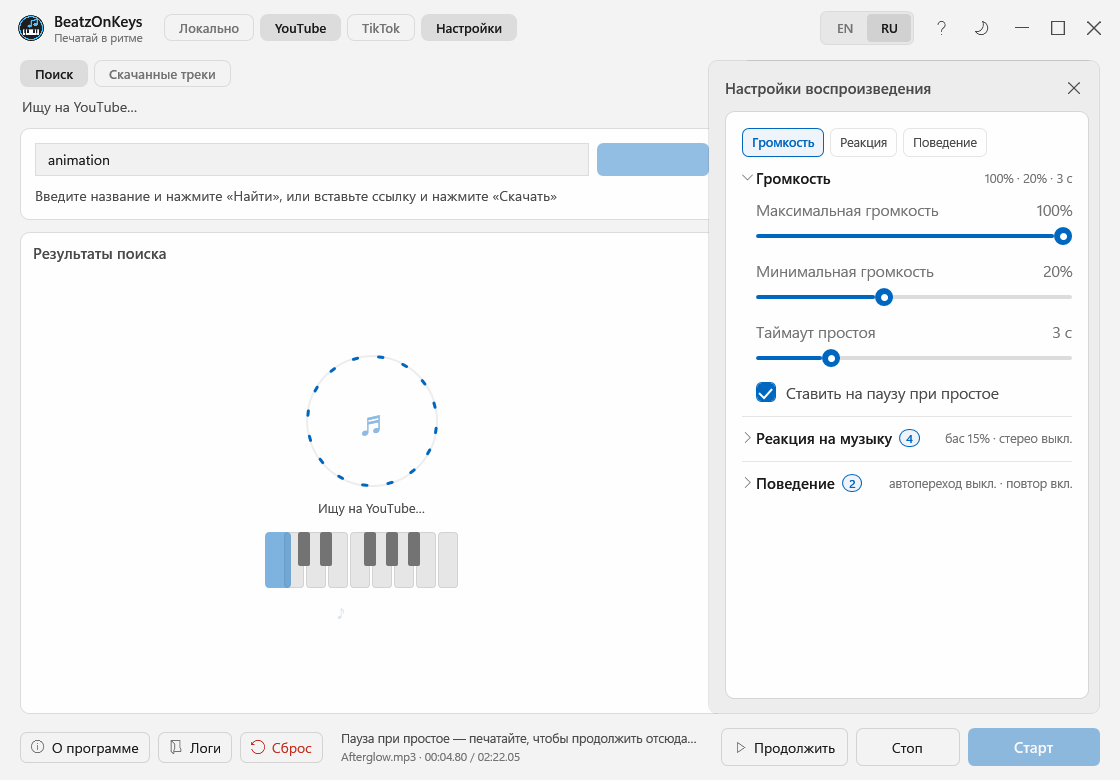
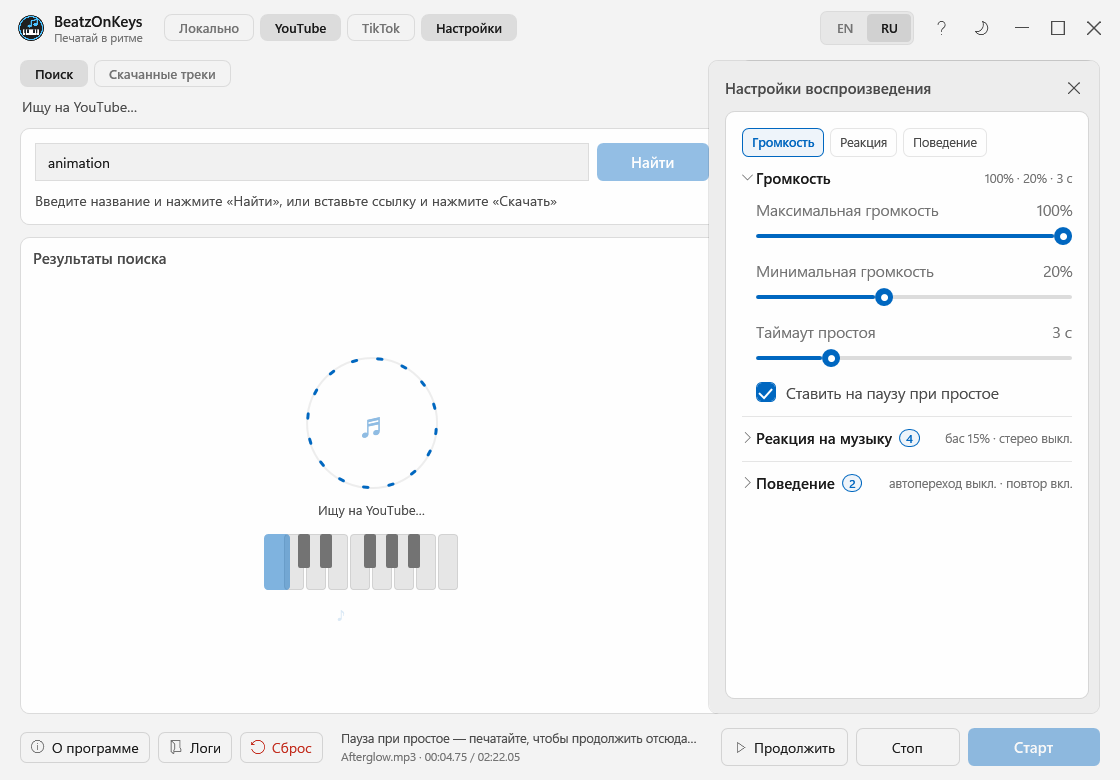
Release 1.4.0.5: the YouTube button gets its label back, and TikTok gets a route without a VPN
The primary button on the YouTube tab has been empty since 1.4.0. The Cancel
button had been placed inside it, and a button's own content always outranks the
content setter from its style, so the button showed the hidden Cancel and never
the word "Search" or "Download". Cancel is a neighbour now, as it already was on
the TikTok tab. The smoke reads button labels instead of only photographing
them, and refuses any button that holds another button as its content.

TikTok now asks the embed page first: www.tiktok.com/embed/v2/<id> exists for the
sites that show TikTok videos, so TikTok serves it without the puzzle and without
the 10204 regional refusal. Measured on a live clip: 287 KB of page, no
challenge, and a 231 KB MP3 behind musicInfos.playUrl. The clip's own text, in
Cyrillic, becomes the row name instead of the numeric id. Caveat: this is the
original-sound track, which is exactly right when the clip's audio is the music.

yt-dlp now runs with PYTHONIOENCODING=utf-8 and PYTHONUTF8=1, because it is
Python and on Windows its output followed the console code page while the
program decoded it as UTF-8, turning every Cyrillic letter into a replacement
character. A second guard drops replacement characters anyway, so no future
encoding accident can put a row of diamonds in the list.

"ratelimit triggered" is its own answer now instead of looking like a broken
connection: too many requests from one address make TikTok slower for a while,
[…]

diff --git a/BeatzOnKeys.UI/MainWindow.xaml b/BeatzOnKeys.UI/MainWindow.xaml
@@ -889,14 +889,10 @@
                     <Border Style="{StaticResource CardStyle}" Padding="14">
                         <StackPanel>
                             <DockPanel>
+                                <!-- The label lives in the style, so the button must not hold any content of
+                                     its own: a local child would outrank the setter and leave the button
+                                     empty, which is exactly what a nested Cancel button did. -->
                                 <Button DockPanel.Dock="Right" MinWidth="112" Margin="8,0,0,0">
-                                <!-- Cancel appears only while something runs: a search, the
-                                     background cache pass or a link download. -->
-                                <Button DockPanel.Dock="Right" MinWidth="96" Margin="8,0,0,0"
-                                        Content="{DynamicResource L_Cancel}"
-                                        Style="{StaticResource SubtleButtonStyle}"
-                                        Command="{Binding YouTube.CancelCommand}"
-                                        Visibility="{Binding YouTube.CancelVisible}"/>
                                     <Button.Style>
                                         <Style TargetType="Button" BasedOn="{StaticResource AccentButtonStyle}">
                                             <Setter Property="Content" Value="{DynamicResource L_YtSearch}"/>
@@ -912,6 +908,14 @@
                                         </Style>
                                     </Button.Style>
                                 </Button>
+                                <!-- Cancel is a neighbour of that button, not its content: it appears only
+                                     while something runs — a search, the background cache pass or a link
+                                     download — and must not take the label away when it hides. -->
+                                <Button DockPanel.Dock="Right" MinWidth="96" Margin="8,0,0,0"
+                                        Content="{DynamicResource L_Cancel}"
+                                        Style="{StaticResource SubtleButtonStyle}"
+                                        Command="{Binding YouTube.CancelCommand}"
+                                        Visibility="{Binding YouTube.CancelVisible}"/>
                                 <TextBox Text="{Binding YouTube.SearchQuery, UpdateSourceTrigger=PropertyChanged}"
                                          Style="{StaticResource InputBoxStyle}"
                                          AutomationProperties.Name="{DynamicResource L_YtSearchPlaceholder}"/>

diff --git a/BeatzOnKeys.UI/Localization/Strings.ru.xaml b/BeatzOnKeys.UI/Localization/Strings.ru.xaml
@@ -201,7 +201,8 @@
     <sys:String x:Key="L_TikTokFailureDownload">Не удалось скачать. Проверьте ссылку и попробуйте снова.</sys:String>
     <sys:String x:Key="L_TikTokFailureNetwork">Соединение с TikTok оборвалось. Попробуйте ещё раз через минуту.</sys:String>
 <sys:String x:Key="L_TikTokFailureRegion">TikTok не отдаёт этот ролик вашему подключению — его собственное ограничение. С другой сети он может открыться.</sys:String>
-    <sys:String x:Key="L_TikTokFailureChallenge">TikTok запросил проверку, которую не удалось пройти. Попробуйте ещё раз через минуту.</sys:String>
+    <sys:String x:Key="L_TikTokFailureRateLimited">TikTok просит подождать: с этого адреса слишком часто спрашивали. Попробуйте через пару минут.</sys:String>
+<sys:String x:Key="L_TikTokFailureChallenge">TikTok запросил проверку, которую не удалось пройти. Попробуйте ещё раз через минуту.</sys:String>
     <sys:String x:Key="L_TikTokNetworkTitle">Связь с TikTok обрывается</sys:String>
     <sys:String x:Key="L_TikTokNetworkBody">TikTok не ответил или соединение прервалось на середине. Это бывает и не при каждом ролике: подождите минуту и попробуйте снова. Если так повторяется — попробуйте другое подключение к интернету.</sys:String>
     <sys:String x:Key="L_YtSearchPlaceholder">Название трека или ссылка YouTube</sys:String>

diff --git a/BeatzOnKeys.UI/Localization/Strings.en.xaml b/BeatzOnKeys.UI/Localization/Strings.en.xaml
@@ -201,7 +201,8 @@ Details: {1}</sys:String>
     <sys:String x:Key="L_TikTokFailureDownload">Could not download. Check the link and try again.</sys:String>
     <sys:String x:Key="L_TikTokFailureNetwork">The connection to TikTok broke. Try again in a minute.</sys:String>
 <sys:String x:Key="L_TikTokFailureRegion">TikTok will not serve this clip to your connection — that is its own restriction. Another network may open it.</sys:String>
-    <sys:String x:Key="L_TikTokFailureChallenge">TikTok asked for a check this program could not pass. Try again in a minute.</sys:String>
+    <sys:String x:Key="L_TikTokFailureRateLimited">TikTok asks you to wait: this address has asked too often. Try again in a couple of minutes.</sys:String>
+<sys:String x:Key="L_TikTokFailureChallenge">TikTok asked for a check this program could not pass. Try again in a minute.</sys:String>
     <sys:String x:Key="L_TikTokNetworkTitle">The connection to TikTok keeps breaking</sys:String>
     <sys:String x:Key="L_TikTokNetworkBody">TikTok did not answer, or the connection broke halfway. It does not happen with every clip: wait a minute and try again. If it keeps happening, try another internet connection.</sys:String>
     <sys:String x:Key="L_YtSearchPlaceholder">Track name or a YouTube link</sys:String>

diff --git a/BeatzOnKeys.Core/YouTube/TikTokAudioService.cs b/BeatzOnKeys.Core/YouTube/TikTokAudioService.cs
@@ -34,7 +34,13 @@ public enum TikTokFailure
     /// to see it. Nothing is broken and nobody is blocking the site, so it gets a sentence of its
     /// own instead of being folded into a network failure.
     /// </summary>
-    RegionBlocked = 11
+    RegionBlocked = 11,
+
+    /// <summary>
+    /// TikTok itself said "ratelimit triggered": this address has asked too often and is being
+    /// told to wait. Retrying straight away only lengthens the wait, so it is named separately.
+    /// </summary>
+    RateLimited = 12
 }
 
 /// <summary>Carries the reason so the view model can translate it instead of guessing from text.</summary>
@@ -268,11 +274,18 @@ public sealed class TikTokAudioService : ITikTokAudioService
     /// </summary>
     private async Task<TikTokMedia?> ReadMediaAsync(string id, string originalUrl, CancellationToken cancellationToken)
     {
+        // The embed page first: it exists for third-party sites, so TikTok serves it without the
+        // puzzle and without the regional refusal, and it carries the clip's own text and its audio.
+        var embed = await ReadPageAsync($"https://www.tiktok.com/embed/v2/{id}", cancellationToken).ConfigureAwait(false);
+        RejectRateLimit(embed);
+        if (ParseEmbed(embed) is { } fromEmbed) { return fromEmbed; }
+
         var api = await TryReadJsonAsync(
             $"https://www.tiktok.com/api/item/detail/?aid=1988&itemId={id}", cancellationToken).ConfigureAwait(false);
         if (ParseMedia(api) is { } fromApi) { return fromApi; }
 
         var page = await ReadPageAsync($"https://www.tiktok.com/@i/video/{id}", cancellationToken).ConfigureAwait(false);
+        RejectRateLimit(page);
         if (ParsePage(page) is { } fromPage) { return fromPage; }
         _pageStatus = ReadPageStatus(page);
 
@@ -372,6 +385,88 @@ public sealed class TikTokAudioService : ITikTokAudioService
     /// Reads TikTok's own status code out of the page. The value decides the sentence the user gets,
     /// and it is TikTok's verdict rather than a guess made from another tool's wording.
     /// </summary>
+    /// <summary>
+    /// Reads the embed page: it keeps the clip's text and its audio under a JSON blob meant for the
+    /// sites that show TikTok videos. The route exists because third-party embeds cannot solve a
+    /// puzzle and are not served the regional refusal, which makes it the one that works here.
+    /// </summary>
+    internal static TikTokMedia? ParseEmbed(string? html)
+    {
+        if (string.IsNullOrWhiteSpace(html)) { return null; }
+        const string open = "<script id=\"__FRONTITY_CONNECT_STATE__\" type=\"application/json\">";
+        var start = html.IndexOf(open, StringComparison.Ordinal);
+        if (start < 0) { return null; }
+        start += open.Length;
+        var end = html.IndexOf("</script>", start, StringComparison.Ordinal);
+        if (end <= start) { return null; }
+        try
+        {
+            using var document = JsonDocument.Parse(html[start..end]);
+            if (!TryFindEmbedVideo(document.RootElement, out var video)) { return null; }
+
+            var title = ReadEmbedText(video, "itemInfos", "text");
+            string? audio = null;
+            if (video.TryGetProperty("musicInfos", out var music) && music.ValueKind == JsonValueKind.Object &&
+                music.TryGetProperty("playUrl", out var urls) && urls.ValueKind == JsonValueKind.Array)
+            {
+                foreach (var candidate in urls.EnumerateArray())
+                {
+                    if (candidate.ValueKind == JsonValueKind.String && candidate.GetString() is { Length: > 0 } found)
+                    {
+                        audio = found;
+                        break;
+                    }
+                }
+            }
+
+            return audio is null && title is null ? null : new TikTokMedia(audio, null, title);
+        }
+        catch (JsonException) { return null; }
+    }
+
+    /// <summary>The embed blob keys its item by the route it was asked for, so the bag is searched.</summary>
+    private static bool TryFindEmbedVideo(JsonElement root, out JsonElement video)
+    {
+        video = default;
+        if (root.ValueKind != JsonValueKind.Object ||
+            !root.TryGetProperty("source", out var source) || source.ValueKind != JsonValueKind.Object ||
+            !source.TryGetProperty("data", out var bag) || bag.ValueKind != JsonValueKind.Object)
+        {
+            return false;
+        }
+
+        foreach (var entry in bag.EnumerateObject())
+        {
+            if (entry.Value.ValueKind == JsonValueKind.Object &&
+                entry.Value.TryGetProperty("videoData", out var found) && found.ValueKind == JsonValueKind.Object)
+            {
+                video = found;
+                return true;
+            }
+        }
+
+        return false;
+    }
+
+    private static string? ReadEmbedText(JsonElement node, string parent, string child) =>
+        node.TryGetProperty(parent, out var section) && section.ValueKind == JsonValueKind.Object &&
+        section.TryGetProperty(child, out var value) && value.ValueKind == JsonValueKind.String
+            ? value.GetString()
+            : null;
+
+    /// <summary>
+    /// TikTok says this when one address has asked too often. Waiting is the only real answer, so
+    /// the retry ladder stops rather than making the wait longer.
+    /// </summary>
+    private static void RejectRateLimit(string? body)
+    {
+        if (body is not null && body.Contains("ratelimit triggered", StringComparison.OrdinalIgnoreCase))
+        {
+            throw new TikTokException(TikTokFailure.RateLimited,
+                "TikTok answered ratelimit triggered: this address has asked too often.");
+        }
+    }
+
     internal static int ReadPageStatus(string? html)
     {
         if (string.IsNullOrWhiteSpace(html)) { return 0; }
@@ -793,6 +888,12 @@ public sealed class TikTokAudioService : ITikTokAudioService
         // yt-dlp's "your IP address is blocked" is its wording for TikTok's own status 10204, which
         // is a regional decision by TikTok and has nothing to do with the provider. Keeping the two
         // apart is the point: one is fixed by trying again in a minute, the other is not.
+        if (text.Contains("ratelimit"))
+        {
+            return new TikTokException(TikTokFailure.RateLimited,
+                "TikTok asked this address to slow down: " + FirstLine(standardError));
+        }
+
         if (text.Contains("ip address is blocked") || text.Contains("not available in your region"))
         {
             return new TikTokException(TikTokFailure.RegionBlocked,
@@ -827,8 +928,31 @@ public sealed class TikTokAudioService : ITikTokAudioService
     private static string? Trim(string? text, int maximum)
     {
         if (string.IsNullOrWhiteSpace(text)) { return null; }
-        var flat = string.Join(' ', text.Split((char[]?)null, StringSplitOptions.RemoveEmptyEntries));
+        var cleaned = RemoveUndecodable(text);
+        if (string.IsNullOrWhiteSpace(cleaned)) { return null; }
+        var flat = string.Join(' ', cleaned.Split((char[]?)null, StringSplitOptions.RemoveEmptyEntries));
         return flat.Length <= maximum ? flat : flat[..maximum].TrimEnd() + "…";
+    }
+
+    /// <summary>
+    /// Drops replacement characters and control codes from a name. They only appear when a byte
+    /// stream was decoded with the wrong code page, and a row of diamonds tells the user nothing
+    /// except that something went wrong; a shorter honest name is better than that.
+    /// </summary>
+    internal static string RemoveUndecodable(string text)
+    {
+        var kept = new StringBuilder(text.Length);
+        foreach (var symbol in text)
+        {
+            if (symbol == '\uFFFD' || (char.IsControl(symbol) && symbol is not ('\t' or '\n' or '\r')))
+            {
+                continue;
+            }
+
+            kept.Append(symbol);
+        }
+
+        return kept.ToString();
     }
 
     private static void TryDelete(string path)

diff --git a/BeatzOnKeys.Tests/TikTokPageTests.cs b/BeatzOnKeys.Tests/TikTokPageTests.cs
@@ -115,6 +115,49 @@ public static class TikTokPageTests
         return Task.CompletedTask;
     }
 
+    public static Task TheEmbedPageYieldsTheClipWithoutThePuzzle()
+    {
+        // The embed route is what makes a download possible without a VPN: TikTok serves it to the
+        // sites that show its videos, so it needs no solved puzzle and carries no 10204 refusal.
+        var html = EmbedPage("— сиксевен | трек в тгк: навеиваю музыку #музыка",
+            "https://v45.tiktokcdn-eu.com/audio/one.mp3");
+        var media = TikTokAudioService.ParseEmbed(html);
+
+        AssertEx.True(media is not null, "The embed page is understood.");
+        AssertEx.Equal("https://v45.tiktokcdn-eu.com/audio/one.mp3", media!.AudioUrl,
+            "The audio address is taken from musicInfos.");
+        AssertEx.Equal("— сиксевен | трек в тгк: навеиваю музыку #музыка", media.Title,
+            "The clip's own text becomes the row name, with the Cyrillic intact.");
+
+        // A page that is not an embed, or a broken one, is simply not this route.
+        AssertEx.True(TikTokAudioService.ParseEmbed("<html>nothing</html>") is null,
+            "A page without the blob is not mistaken for an embed.");
+        AssertEx.True(TikTokAudioService.ParseEmbed(null) is null, "A missing page yields nothing.");
+        return Task.CompletedTask;
+    }
+
+    public static Task UndecodableBytesNeverReachTheRow()
+    {
+        // The diamonds were real: Python wrote its console code page, the bytes were read as UTF-8,
+        // and every Cyrillic letter became U+FFFD. Cleaning at the end means a wrong code page can
+        // never put a row of diamonds in the list, whatever causes it.
+        AssertEx.Equal("NAVIA  elbrus", TikTokAudioService.RemoveUndecodable("NAVIA \uFFFD\uFFFD\uFFFD elbrus"),
+            "Replacement characters are dropped; the gap they leave is collapsed by Trim later.");
+        AssertEx.Equal("строка", TikTokAudioService.RemoveUndecodable("строка"),
+            "Real Cyrillic is untouched.");
+        AssertEx.Equal("a b", TikTokAudioService.RemoveUndecodable("a\u0007 b"),
+            "Control codes are dropped.");
+        AssertEx.True(string.IsNullOrWhiteSpace(TikTokAudioService.RemoveUndecodable("\uFFFD\uFFFD")),
+            "A name made of nothing but damage becomes empty rather than noise.");
+        return Task.CompletedTask;
+    }
+
+    private static string EmbedPage(string text, string audio) =>
+        "<html><script id=\"__FRONTITY_CONNECT_STATE__\" type=\"application/json\">" +
+        "{\"source\":{\"data\":{\"/embed/v2/123\":{\"videoData\":{" +
+        "\"itemInfos\":{\"id\":\"123\",\"text\":\"" + text.Replace("\"", "\\\"") + "\"}," +
+        "\"musicInfos\":{\"musicName\":\"original\",\"playUrl\":[\"" + audio + "\"]}}}}}}</script></html>";
+
     public static Task ThePageStatusIsReadFromTiktokItself()
     {
         // The status lives in the page TikTok sends, and it is the difference between "the video is

diff --git a/tools/UiSmoke/Program.cs b/tools/UiSmoke/Program.cs
@@ -1532,6 +1532,28 @@ internal sealed class SmokeRun(string root, string session, App app, int aborted
             finally { SmokeYouTubeRunner.SearchDelay = TimeSpan.Zero; }
         }
 
+        // The primary YouTube button once had no label at all, and nobody saw it for four
+        // releases: a Cancel button nested inside it outranked the style's content setter, so the
+        // setter was dead code. The label is now checked, not just photographed.
+        {
+            var tabsForLabel = _vm!;
+            tabsForLabel.ShowYouTubeCommand.Execute(null);
+            tabsForLabel.YouTube.SearchQuery = "https://youtu.be/3LzyxUDVfZw?si=7qLRovDN86qQNT5e";
+            await SettleAsync();
+            var primary = Descendants<Button>(_window!)
+                .Where(button => button.IsVisible && button.Content is string)
+                .Select(button => (string)button.Content)
+                .ToList();
+            Check("youtube.primaryButtonHasALabel",
+                primary.Contains(Loc.T("L_YtDownloadNow")),
+                $"Кнопки со словами: {string.Join(" | ", primary)}.");
+            Check("youtube.noButtonSwallowsAnother",
+                !Descendants<Button>(_window!).Any(outer => outer.Content is Button),
+                "Ни одна кнопка не содержит другую вместо текста.");
+            tabsForLabel.YouTube.SearchQuery = string.Empty;
+            tabsForLabel.ShowPlaylistCommand.Execute(null);
+            await SettleAsync();
+        }
         // --- The three tabs and the TikTok page ------------------------------------------------
         // The page switch is a single field now, so exactly one of the three can be active.
         {

diff --git a/BeatzOnKeys.Core/YouTube/YouTubeProcessRunner.cs b/BeatzOnKeys.Core/YouTube/YouTubeProcessRunner.cs
@@ -28,6 +28,13 @@ public sealed class YouTubeProcessRunner : IYouTubeProcessRunner
             StandardOutputEncoding = Encoding.UTF8,
             StandardErrorEncoding = Encoding.UTF8
         };
+
+        // yt-dlp is Python, and on Windows its stdout follows the console code page rather than
+        // UTF-8. Decoding those bytes as UTF-8 turned every Cyrillic letter into a replacement
+        // character, which reached the user as rows of diamonds. Asking for UTF-8 at the source is
+        // the only fix that keeps the name intact instead of guessing at the damage.
+        startInfo.Environment["PYTHONIOENCODING"] = "utf-8";
+        startInfo.Environment["PYTHONUTF8"] = "1";
         foreach (var argument in request.Arguments)
         {
             if (!string.IsNullOrEmpty(argument)) { startInfo.ArgumentList.Add(argument); }

diff --git a/BeatzOnKeys.Tests/UpdateServiceTests.cs b/BeatzOnKeys.Tests/UpdateServiceTests.cs
@@ -18,9 +18,9 @@ internal static class UpdateServiceTests
         AssertEx.Equal(1, assemblyVersion.Major);
         AssertEx.Equal(4, assemblyVersion.Minor);
         AssertEx.Equal(0, assemblyVersion.Build);
-        // The patch digit is the revision, so 1.4.0.4 keeps all four parts.
-        AssertEx.Equal(4, assemblyVersion.Revision);
-        AssertEx.Equal("1.4.0.4", UpdateService.CurrentVersion.Display);
+        // The patch digit is the revision, so 1.4.0.5 keeps all four parts.
+        AssertEx.Equal(5, assemblyVersion.Revision);
+        AssertEx.Equal("1.4.0.5", UpdateService.CurrentVersion.Display);
 
         var current = Version("1.1.1");
         var result = UpdateService.ParseRelease(ReleaseJson("v1.1.1"), current);

diff --git a/tools/AudioProbe/Program.cs b/tools/AudioProbe/Program.cs
@@ -210,7 +210,7 @@ static async Task<int> RunProbeAsync(string sourcePath, string reportPath)
     var passed = checks.All(check => check.Passed);
     var report = new
     {
-        passed, utc = DateTimeOffset.UtcNow, version = "1.4.0.4", source = Path.GetFileName(sourcePath),
+        passed, utc = DateTimeOffset.UtcNow, version = "1.4.0.5", source = Path.GetFileName(sourcePath),
         durationSeconds = duration.TotalSeconds, processId = Environment.ProcessId,
         capture = "Windows process-specific loopback (only this diagnostic process tree)",
         defaults = new { MinVolume = 0.2, MaxVolume = 1.0, IdleTimeout = 3, PauseOnIdle = true },

diff --git a/BeatzOnKeys.Tests/Program.cs b/BeatzOnKeys.Tests/Program.cs
@@ -143,6 +143,8 @@ internal static class Program
         ,("TikTok.TheHardCaseFitsInTheBudget", TikTokPageTests.TheHardCaseFitsInTheBudget)
         ,("TikTok.TheTitleAndPathArePulledApart", TikTokPageTests.TheTitleAndPathArePulledApart)
         ,("TikTok.ThePageStatusIsReadFromTiktokItself", TikTokPageTests.ThePageStatusIsReadFromTiktokItself)
+        ,("TikTok.TheEmbedPageYieldsTheClipWithoutThePuzzle", TikTokPageTests.TheEmbedPageYieldsTheClipWithoutThePuzzle)
+        ,("TikTok.UndecodableBytesNeverReachTheRow", TikTokPageTests.UndecodableBytesNeverReachTheRow)
     ];
 
     private static async Task<int> Main()

diff --git a/BeatzOnKeys.UI/ViewModels/TikTokViewModel.cs b/BeatzOnKeys.UI/ViewModels/TikTokViewModel.cs
@@ -301,6 +301,8 @@ public sealed class TikTokViewModel : ObservableObject
         TikTokFailure.TooLarge => "L_TikTokFailureTooLarge",
         TikTokFailure.Timeout => "L_TikTokFailureTimeout",
         TikTokFailure.Cancelled => "L_TikTokCancelled",
+        TikTokFailure.RegionBlocked => "L_TikTokFailureRegion",
+        TikTokFailure.RateLimited => "L_TikTokFailureRateLimited",
         TikTokFailure.NetworkBlocked => "L_TikTokFailureNetwork",
         TikTokFailure.ChallengeFailed => "L_TikTokFailureChallenge",
         _ => "L_TikTokFailureDownload"

diff --git a/BeatzOnKeys.UI/AboutWindow.xaml.cs b/BeatzOnKeys.UI/AboutWindow.xaml.cs
@@ -59,7 +59,7 @@ public partial class AboutWindow : Window
                 return parsed.Display;
             }
 
-            return assembly.GetName().Version?.ToString(3) ?? "1.4.0.4";
+            return assembly.GetName().Version?.ToString(3) ?? "1.4.0.5";
         }
     }
 
